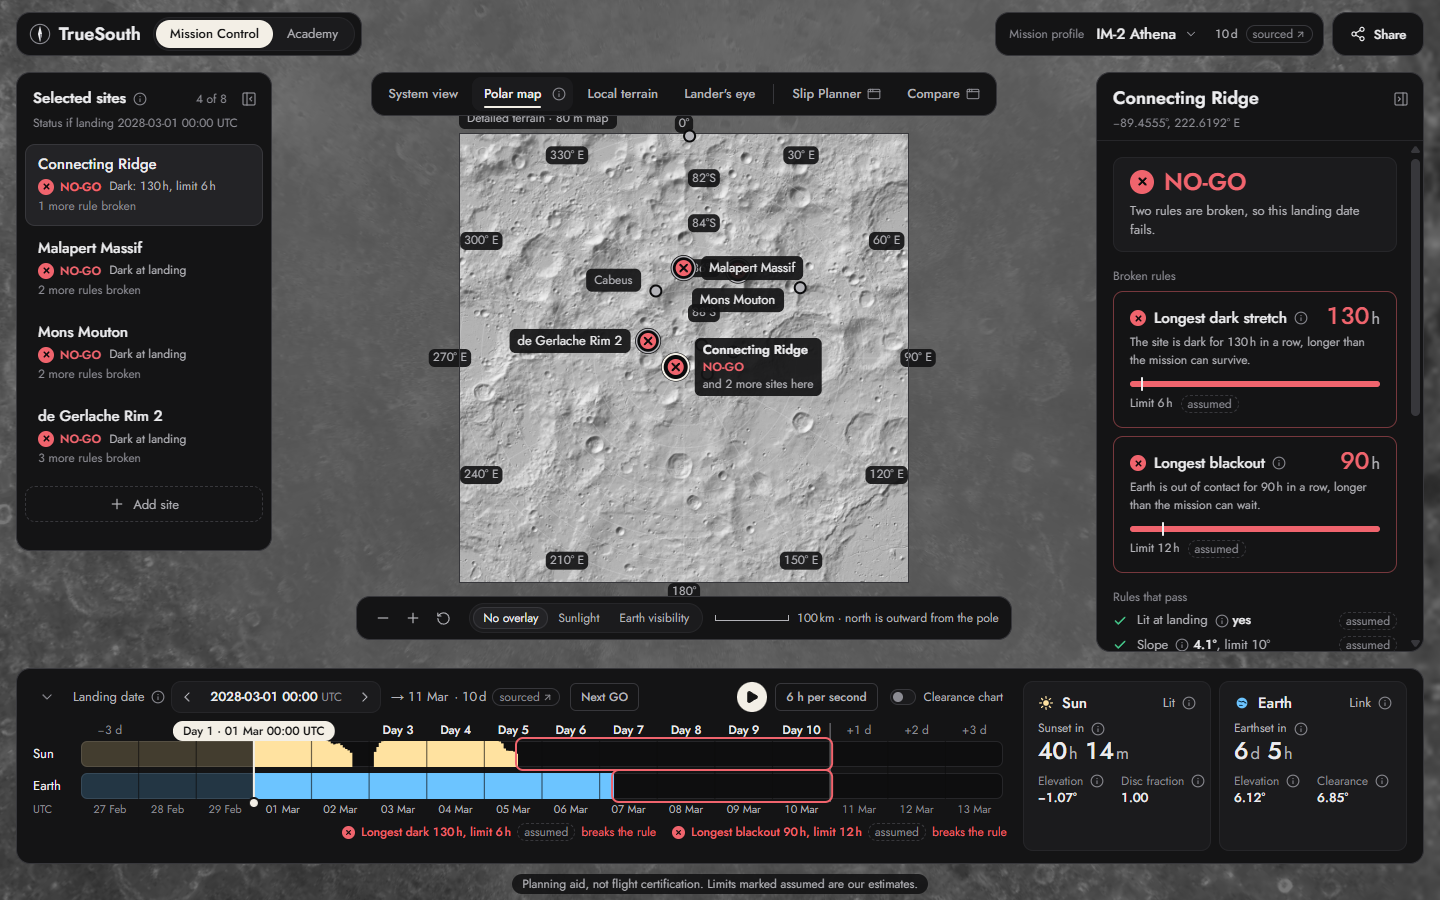
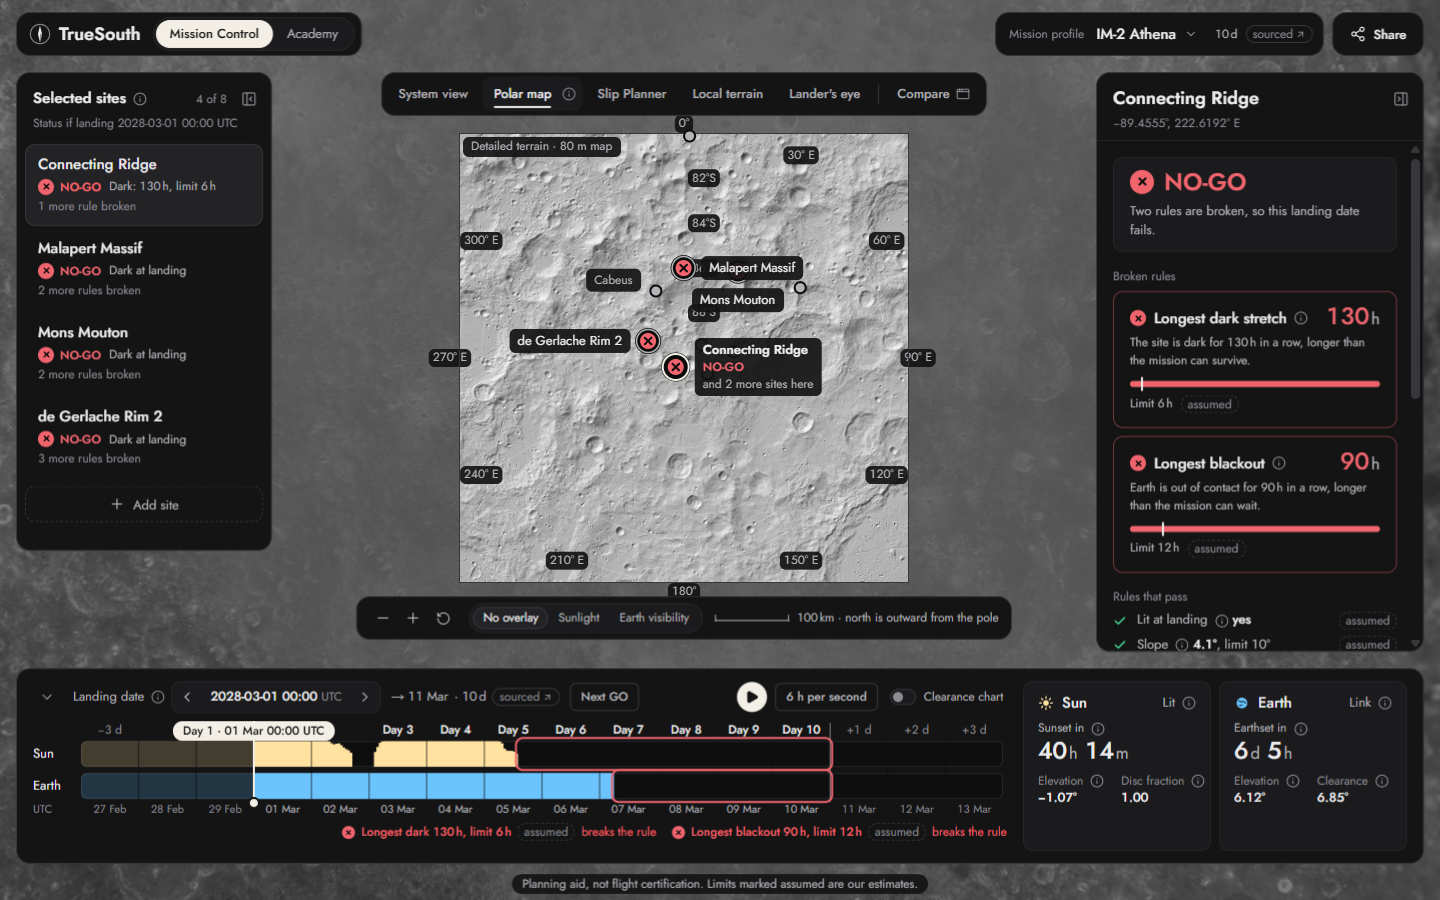
T7b: document context coverage and the final map checks

diff --git a/docs/features/polar-map.md b/docs/features/polar-map.md
@@ -54,6 +54,23 @@ map is flat, and the globe lives in the [System view](system-view.md).
 - **Base layer:** shaded relief from the 80 m map, covering 80°S to the pole, with a sharper
   core near the pole. It is lit from the top-left of the image as a drawing convention
   ([`science.md`](../science.md) §2.4), not by the real Sun.
+- **Around the detailed square (as built):** the scene's existing NASA Moon image,
+  `scene/moon_4k.webp`, is redrawn in the same projection in the browser. Two cached canvases
+  cover the southern hemisphere to the equator: a 1,024 px outer image and a 2,048 px inner
+  image reaching 960 km from the pole (about 59°S along its sides). The context is grey,
+  dimmer and lower in contrast than the relief. It is only a picture; no readout samples it.
+  North of the equator the background stays Night. The build starts during the flight,
+  yields between short chunks, and fades in over 400 ms when ready (appears immediately
+  with reduced motion). While building, or if the source image fails, the detailed square
+  still works. The canvases are released when the view is left; lesson boxes use the context
+  only if already cached.
+- **The detailed square's edge (as built):** a one-pixel Control Edge border follows the
+  relief and lookup grids' square extent, rather than the 80°S latitude circle. Its quiet
+  label, "Detailed terrain · 80 m map", keeps one screen size. It sits above the top edge
+  when that fits in the free space, otherwise just inside it; the bottom edge is used when
+  the top is out of view. Grid labels give way to it, and pin and feature labels avoid it.
+  If neither edge or the label fits, the border remains without the label. Lesson boxes
+  keep the border without the label.
 - **Overlays,** one at a time, with an opacity slider:
   - NASA's average sunlight (share of time lit, averaged over 18.6 years), tinted Sun
     Cream.
@@ -86,7 +103,8 @@ map is flat, and the globe lives in the [System view](system-view.md).
   fit in to 25 m a pixel (the 8K image's pixel is 74 m); the 8K image loads once a 4K pixel
   would cover more than one device pixel, and is let go after 20 s zoomed back out and when
   the view is left (with the overlay images). Pan stops while a third of the map's width (or
-  half the free space, zoomed in) is still inside the free space. Until the user moves the map it follows the free
+  half the free space, zoomed in) is still inside the free space. This limit still uses the
+  detailed square, keeping it reachable while the surroundings can be explored. Until the user moves the map it follows the free
   space; reset (or `0`) returns to the fit.
 - **Keyboard (as built).** The map is one Tab stop. Arrows pan (Shift for more), `+` and `−`
   zoom, `0` resets, Enter marks a "New site here?" point at the centre and the arrows then
@@ -143,6 +161,12 @@ are in [`../data-contracts.md`](../data-contracts.md), "API messages".
   while the server can compute custom sites (`/api/health`, asked once when the Polar map
   view first opens): it starts the same flow and the same row as the form, with one POST
   per press. A ready custom site's pin carries "Your site"; one still computing has no pin.
+- Outside the detailed square, NASA's average values say "Outside the detailed map" in
+  hover, point and nudge readouts. The compute button may still be offered: its readout says
+  which terrain will be used, following the latitude bounds in
+  [`architecture.md`](../architecture.md): 80 m terrain at and south of 80°S, 240 m terrain
+  north of 80°S through 60°S, and a smooth Moon north of 60°S. The square's corners do not
+  change those latitude bounds.
 - A POST is made only by a button press, once per press. A link, a remount, the page
   being shown again or the network coming back only look the id up (GET).
 
@@ -184,7 +208,10 @@ Contrast sites away from the pole, such as Apollo 11, are not on the flat map. P
 short list floats beside the map's controls, and each row's "Show on Moon" button flies
 the camera back to the System view following that site. Reason: the earlier strip with a
 locator globe is now redundant, because the System view is the globe and is one pick away.
-As built: the list shows the selected sites that are off the map; "Show on Moon" focuses the
+As built: pins for catalog and ready custom sites anywhere in the southern hemisphere are
+drawn on the context in their true places. A pin outside the square says "Outside the
+detailed map" on its plate; a custom pin also says "Your site". Sites north of the equator
+stay in the list. The list shows the selected sites that are off the map; "Show on Moon" focuses the
 site and picks the System view. Following the site is the scene's own "Follow site" camera
 preset, which the map cannot set from outside the scene.
 Selecting one works as usual.
@@ -206,6 +233,10 @@ Selecting one works as usual.
   layer from outside, which hides the map's own overlay choice) and `onProjector` (a
   projector with the same shape as the 3D scene's `SceneProjector`: `project(lat, lon)` and
   `subscribe(onFrame)`).
+  `readouts={false}` switches off the map's hover, point and nudge readouts. The detailed
+  square's label follows that switch by default, so the Slip Planner's spots keep their
+  own labels clear; the border and context stay drawn. A caller may set `detailLabel`
+  explicitly to show or hide only that label. Existing prop meanings stay the same.
   Proposed. Reason: the overlays arrive after the first paint, so the choice must not be
   live before they do.
 - **No WebGL or the still picture:** the flat map is a 2D canvas, so it still opens, with a

diff --git a/DEVLOG.md b/DEVLOG.md
@@ -1104,6 +1104,58 @@ Every one of the 65 proposed keys has a definition, source arrays, availability,
 
 ## 3D and Map
 
+#### 2026-11-14 · T7b · The Moon around the Polar map's detailed square
+- **Who:** implementation agent, for the orchestrator
+- **AI use:** Claude Code, claude-opus-5-5 — built the context reprojection, border,
+  outside-map readouts, tests and the first visual pass with the impeccable skill;
+  Codex, gpt-6.1-sol — resumed the interrupted work, finished label placement and readout
+  wrapping, added free-space label tests, ran the checks, updated the spec and captured the
+  final opening views and flat Slip Planner. No AI-generated imagery; human review pending.
+- **State:** built, not verified
+- **Changed:** `web/src/features/polar-map/`; `docs/features/polar-map.md`; eight
+  `docs/design/c2/built-polar-map-context-*.png` screenshots; this entry.
+- **Notes:**
+  - Uses the scene's existing NASA `scene/moon_4k.webp`, redrawn in the browser with the
+    shared projection helpers. A 1,024 px outer canvas reaches the equator; a 2,048 px inner
+    canvas reaches 960 km from the pole (about 59°S along its sides). The quieter grey
+    context is a picture, never a terrain or visibility result. No pipeline, contract,
+    scene, Mission Control or dependency changes.
+  - The earlier timing probe measured about 1.5 s to build on this machine, with completion
+    competing with the flight under load. Work yields between roughly 8 ms slices and
+    starts when the view is picked. The two RGBA canvases total 20 MiB (calculated, not a
+    measured heap peak); the decoded source and temporary pixel arrays cost more during
+    construction. Context, 8K relief and overlays release their cache references on leaving.
+  - The border follows the image and lookup grids' square, not the 80°S circle. Its label
+    stays inside the free space, above an edge when possible and inside otherwise. Grid
+    labels give way to it; pin and feature labels avoid it. The border stays when the label
+    is hidden. `readouts={false}` hides the label by default for the Slip Planner;
+    `detailLabel` overrides only that label. Other prop meanings are unchanged.
+  - Catalog and ready custom pins in the southern hemisphere can sit on the context,
+    outside the border, labelled "Outside the detailed map" (custom pins retain "Your
+    site"). Northern sites remain in the off-map list. NASA's hover, point and nudge values
+    outside the square say "outside the detailed map". Compute remains available when a
+    callback is supplied and names the 80 m, 240 m or smooth-Moon tier from the shared
+    `tierHint`, using the server's latitude bounds. The pan clamp still keeps the detailed
+    square reachable. The takeover fit reserves the scene's 60 px controls strip.
+  - **Checks:** each full command ran once, sequentially, with its exit code read directly:
+    web test exit 0 (2,342 tests, 103 files); typecheck exit 0; build exit 0; pytest exit 0
+    (425 passed, 1 skipped, 3 existing dependency/fixture warnings, 260.67 s). No timed-out
+    test needed a rerun. Before these, the three map files passed 67 focused tests, including
+    projection, outside-map readouts, tier boundaries, label placement and the takeover's
+    under-1% pin displacement. The Impeccable detector returned no findings.
+  - **By eye:** real-data opening views at 1440 × 900 and 390 × 844 show the whole square
+    with the Moon around it and the label clear of the view bar; left pans show the context
+    following the map. The Slip Planner with forced no-WebGL was captured at both sizes:
+    its spots follow the map and the square's label is hidden. On the phone its existing
+    map controls cover much of the small map; their behavior was left unchanged.
+    Earlier captures show the takeover and minimum zoom. The preview's snapshot and
+    recording host repeatedly timed out or disconnected, so the remaining right/up/down
+    pan checks could not be completed by eye. Some final PNGs are frames from the session
+    browser's recording because its snapshot endpoint failed. No browser test suite added.
+  - `origin/main` was merged at `2dc14c6`, retaining both sides' entries; the final fetch
+    still found main at `5a5fd84`. Own preview tabs were closed and port 5199 stopped;
+    ports 5173, 8000 and 8080 were not touched. Team-lead review remains outstanding.
+
 #### 2026-11-14 · T3 · The ground's look in Local terrain and Lander's eye
 - **Who:** Claude Code agent, for the orchestrator
 - **AI use:** Claude Code, claude-opus-5-5, with the impeccable design skill (question
